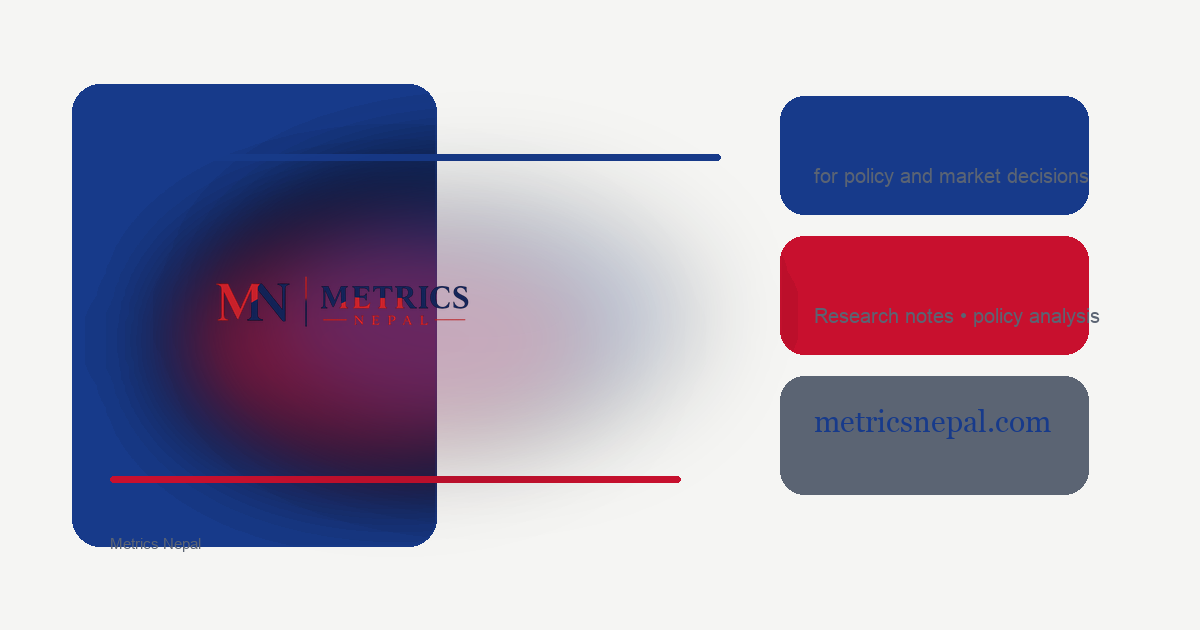
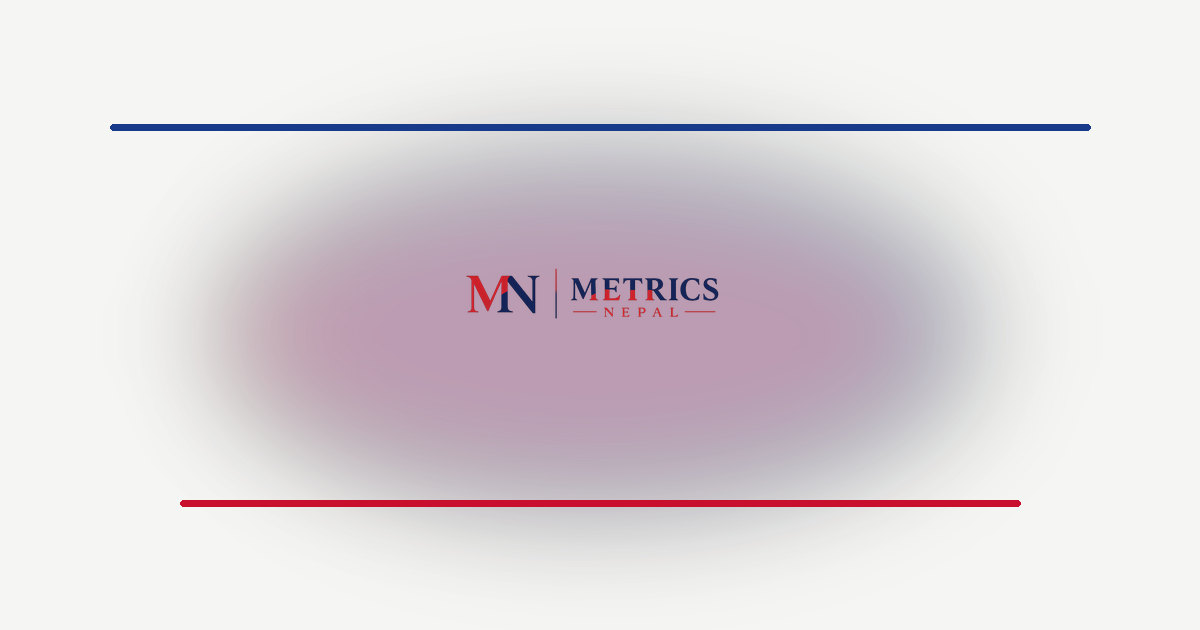
Simplify homepage social preview image

diff --git a/index.html b/index.html
@@ -14,14 +14,14 @@
     <meta property="og:title" content="Metrics Nepal" />
     <meta property="og:description" content="Economic analysis for policy and market decisions." />
     <meta property="og:url" content="https://metricsnepal.com/" />
-    <meta property="og:image" content="https://metricsnepal.com/og-home.png" />
+    <meta property="og:image" content="https://metricsnepal.com/og-image.png?v=2" />
     <meta property="og:image:width" content="1200" />
     <meta property="og:image:height" content="630" />
-    <meta property="og:image:alt" content="Metrics Nepal homepage preview" />
+    <meta property="og:image:alt" content="Metrics Nepal brand preview" />
     <meta name="twitter:card" content="summary_large_image" />
     <meta name="twitter:title" content="Metrics Nepal" />
     <meta name="twitter:description" content="Economic analysis for policy and market decisions." />
-    <meta name="twitter:image" content="https://metricsnepal.com/og-home.png" />
+    <meta name="twitter:image" content="https://metricsnepal.com/og-image.png?v=2" />
     <title>Metrics Nepal</title>
   </head>
   <body>
